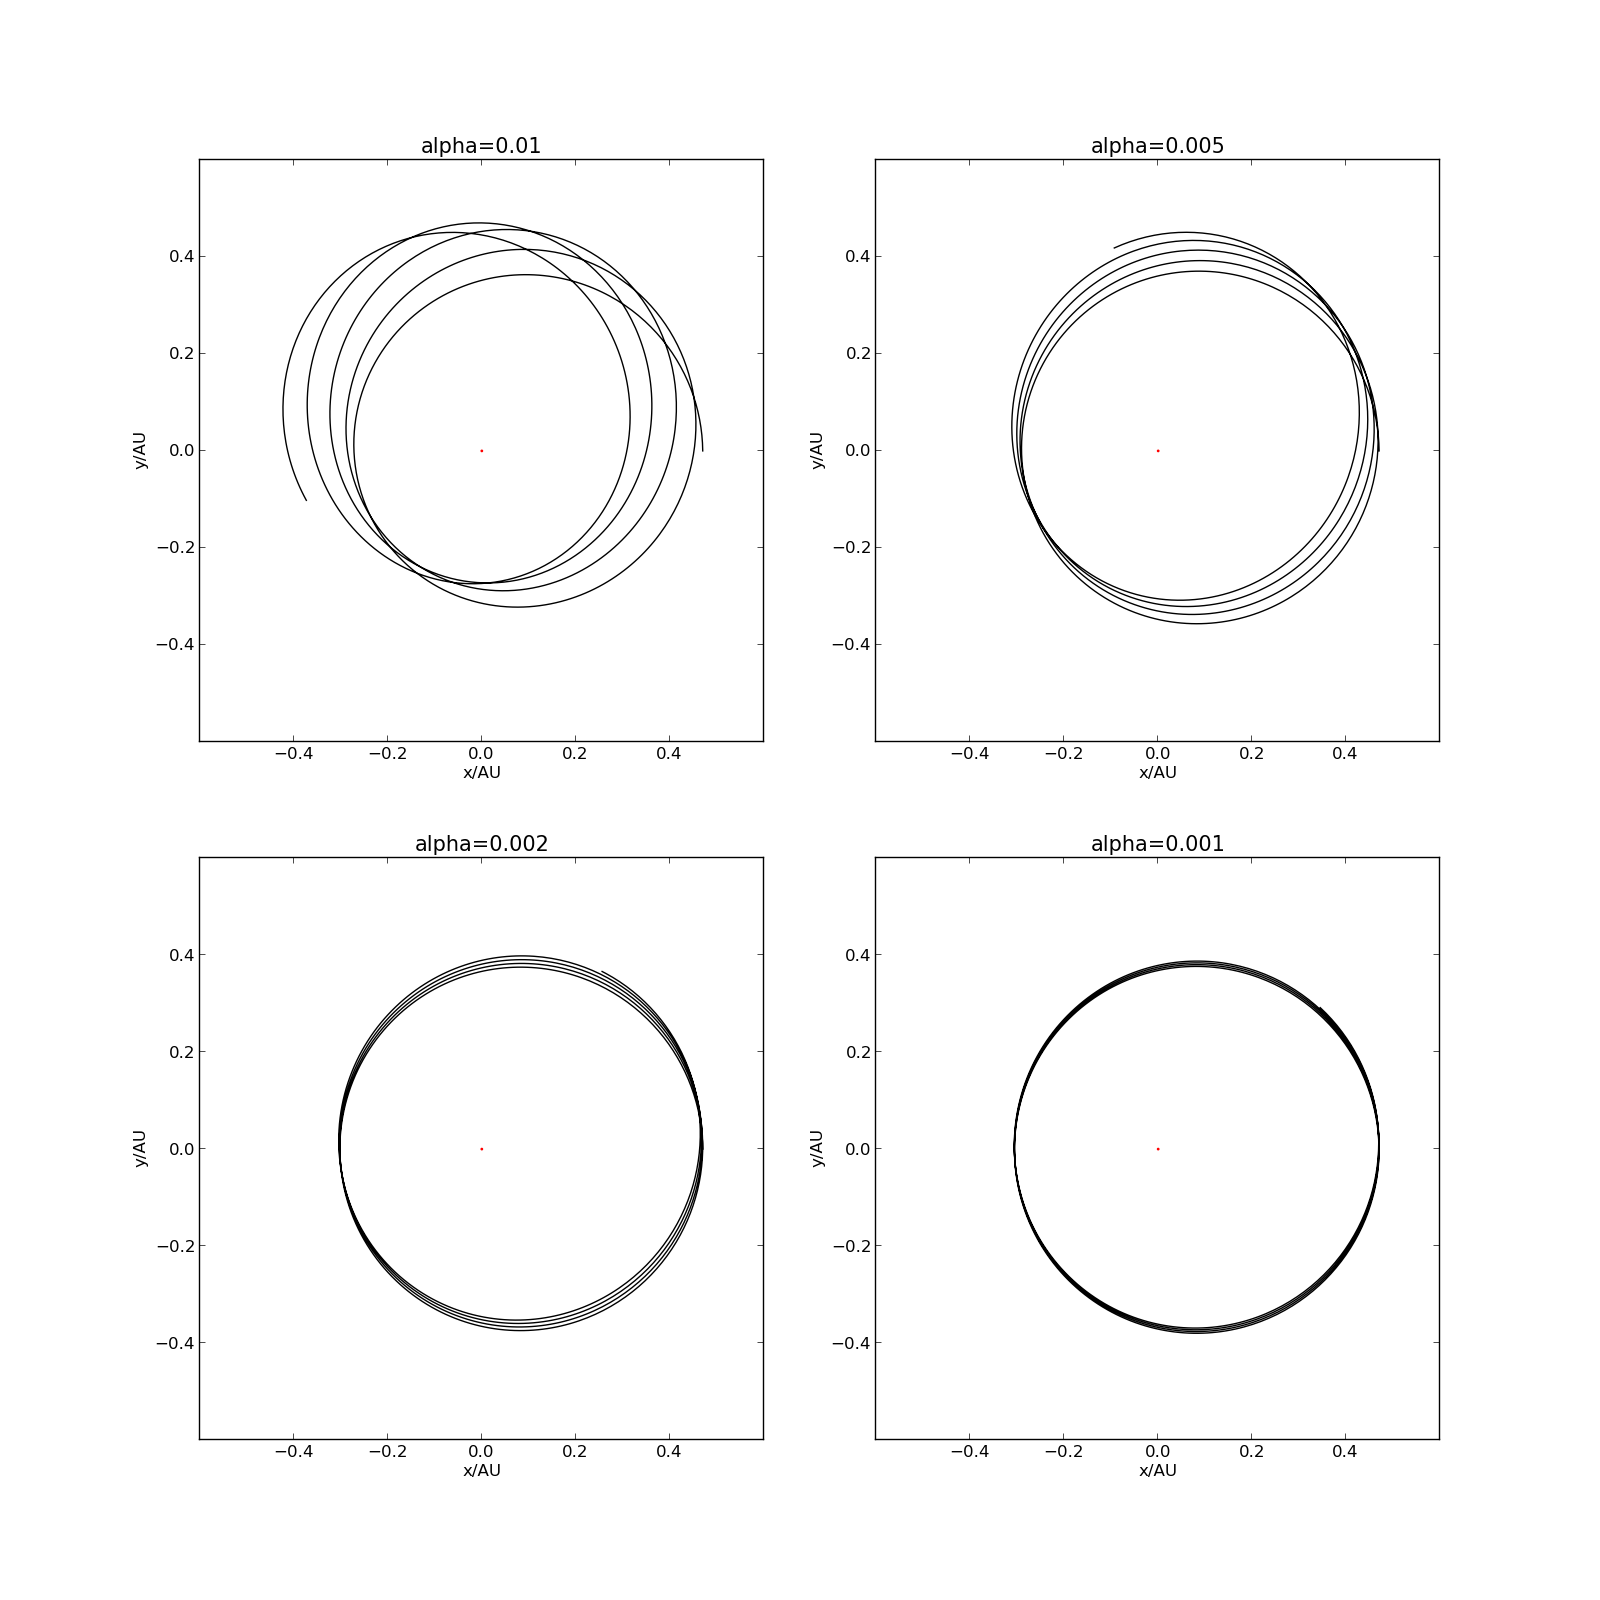
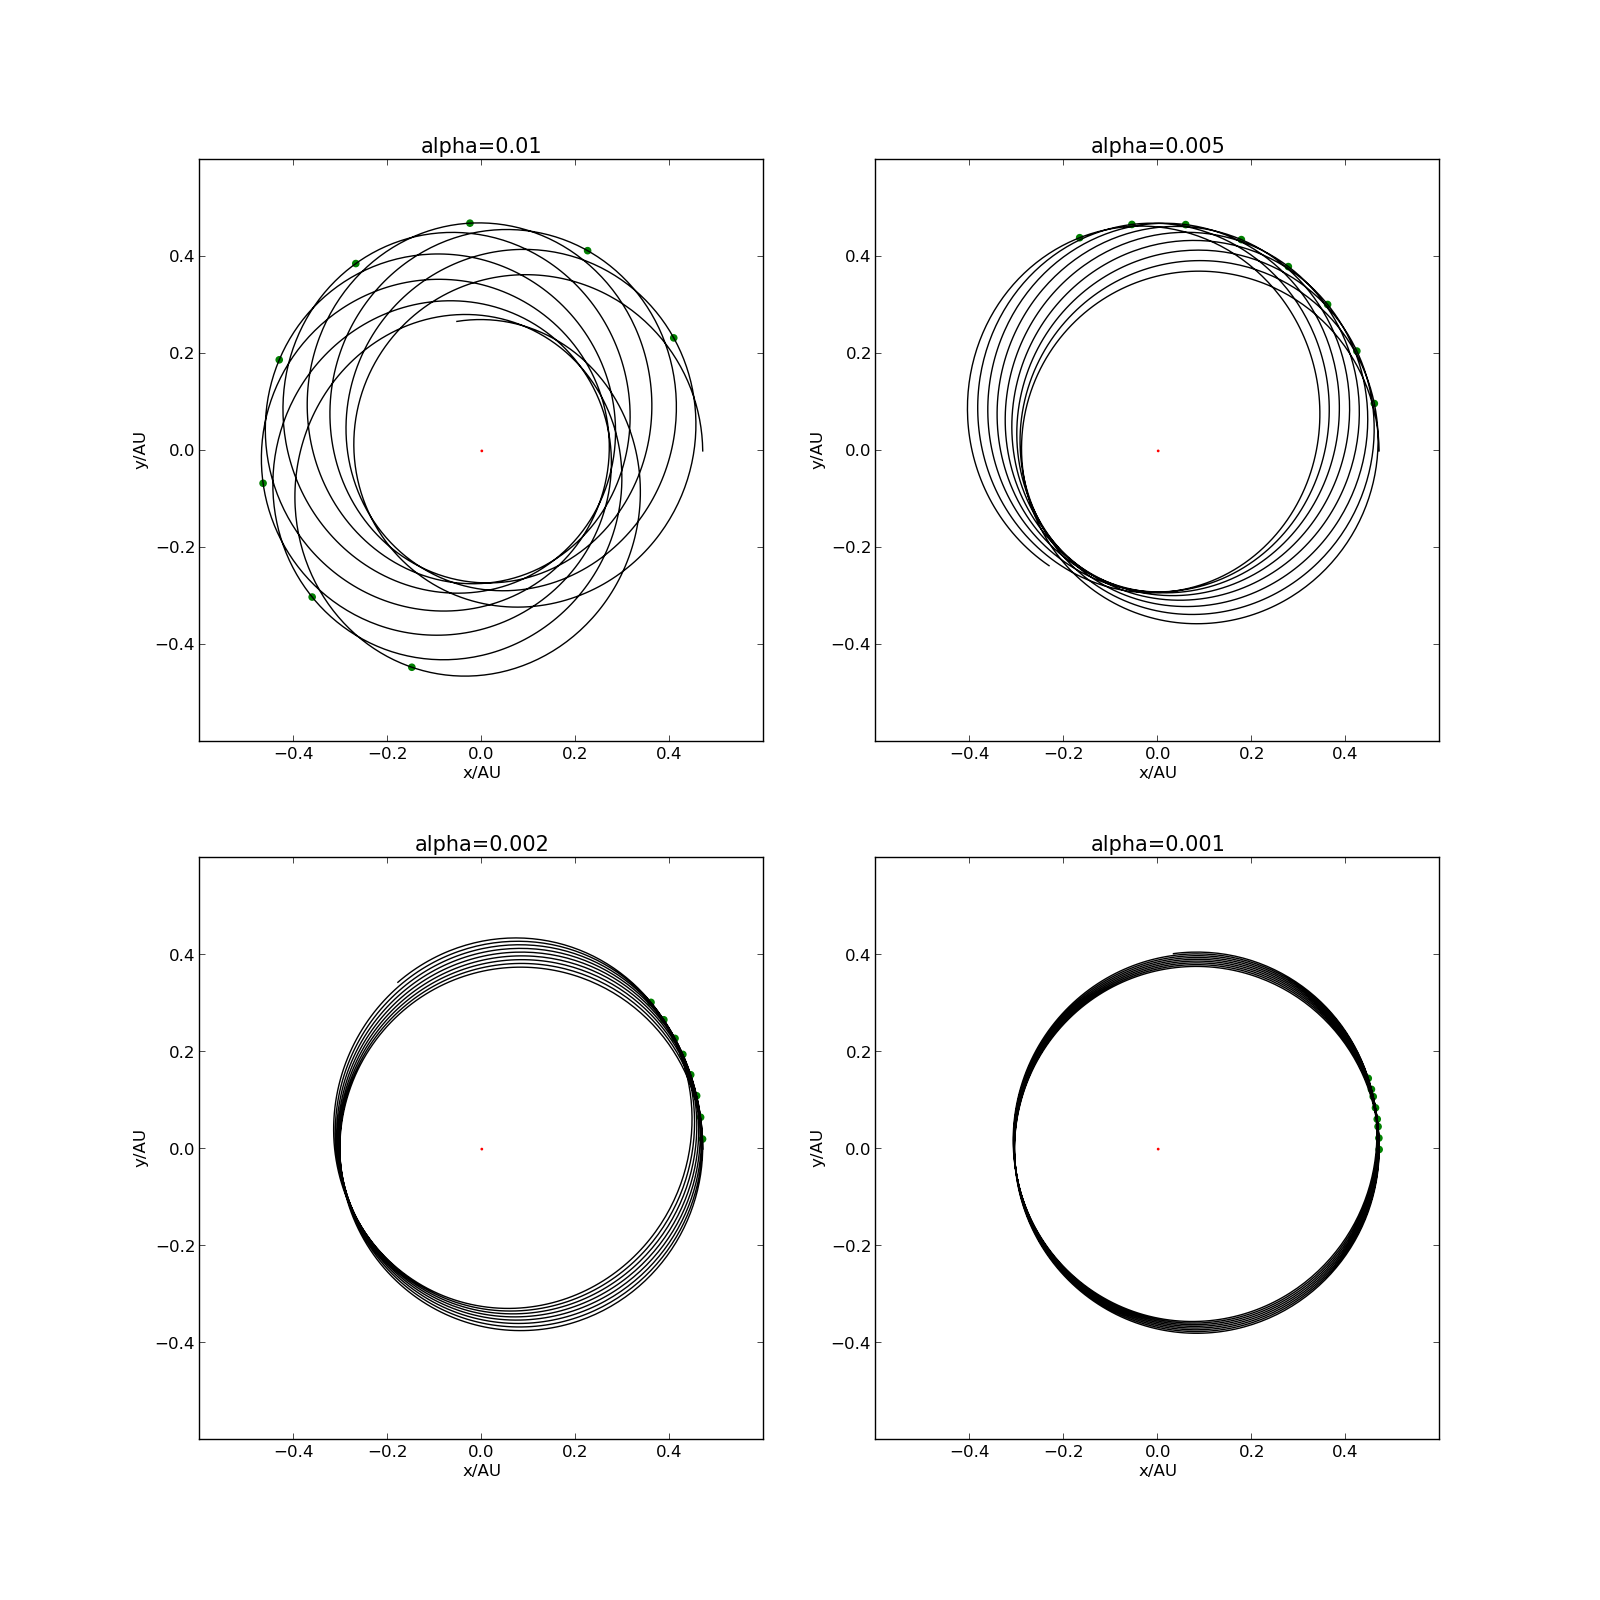
Added files via upload

diff --git a/Mercury.py b/Mercury.py
@@ -1,0 +1,194 @@
+'''
+The precession of Mercury
+astronomical units
+
+F=GMM'/(r^2)*(1+alpha/(r^2))
+'''
+
+import numpy as np
+from pylab import *
+from math import *
+import mpl_toolkits.mplot3d
+
+#Determine the initial value
+def initial(a,e):
+    x0=a*(1+e)
+    y0=0
+    v_x0=0
+    v_y0=2*pi*sqrt((1-e)/(a*(1+e)))
+    return [x0,y0,v_x0,v_y0]
+
+def orbits(alpha):
+    global a
+    a=0.39
+    e=0.206
+    i_M=initial(a,e)
+    x0=i_M[0]
+    x=[]
+    x.append(x0)
+    y0=i_M[1]
+    y=[]
+    y.append(y0)
+    v_x0=i_M[2]
+    v_x=[]
+    v_x.append(v_x0)
+    v_y0=i_M[3]
+    v_y=[]
+    v_y.append(v_y0)
+    r=[]
+    r.append(sqrt(x0**2+y0**2))
+    t=[]
+    t.append(0)
+    time=2.0
+    dt=0.001
+
+    for i in range(int(time/dt)):
+        v_x.append(v_x[i]-4*pi**2*x[i]/(r[i]**3)*(1+alpha/(r[i]**2))*dt)
+        x.append(x[i]+v_x[i+1]*dt)
+        v_y.append(v_y[i]-4*pi**2*y[i]/(r[i]**3)*(1+alpha/(r[i]**2))*dt)
+        y.append(y[i]+v_y[i+1]*dt)
+        r.append(sqrt(x[i+1]**2+y[i+1]**2))
+        t.append(t[i]+dt)
+    return [x,y,v_x,v_y,r,t]
+
+def precession(M):
+    x=M[0]
+    y=M[1]
+    r=M[4]
+    t=M[5]
+    theta=[]
+    xp=[]
+    yp=[]
+    tp=[]
+    for i in range(len(r)-2):
+        if (r[i+2]-r[i+1])*(r[i+1]-r[i])<0:#choose the perihelions and aphelions
+            if r[i+1]>a:#choose the aphelions
+                if y[i+1]/x[i+1]>0:
+                    angle=arctan(y[i+1]/x[i+1])
+                else:
+                    angle=pi+arctan(y[i+1]/x[i+1])
+                theta.append(angle)
+                xp.append(x[i+1])
+                yp.append(y[i+1])
+                tp.append(t[i+1])
+    print tp,theta
+    return [tp,theta,xp,yp]
+
+#The orbits of planet
+f=open('precession of  Mercury.txt','w')
+M1=orbits(0.01)
+x_M1=M1[0]
+y_M1=M1[1]
+p1=precession(M1)
+tp1=p1[0]
+theta1=p1[1]
+print >> f,'alpha=',0.01
+print >> f,'tp1=',tp1,'theta1=',theta1
+xp1=p1[2]
+yp1=p1[3]
+
+M2=orbits(0.005)
+x_M2=M2[0]
+y_M2=M2[1]
+p2=precession(M2)
+tp2=p2[0]
+theta2=p2[1]
+print >> f,'alpha=',0.005
+print >> f,'tp2=',tp2,'theta2=',theta2
+xp2=p2[2]
+yp2=p2[3]
+
+M3=orbits(0.002)
+x_M3=M3[0]
+y_M3=M3[1]
+p3=precession(M3)
+tp3=p3[0]
+theta3=p3[1]
+print >> f,'alpha=',0.002
+print >> f,'tp3=',tp3,'theta3=',theta3
+xp3=p3[2]
+yp3=p3[3]
+
+M4=orbits(0.001)
+x_M4=M4[0]
+y_M4=M4[1]
+p4=precession(M4)
+tp4=p4[0]
+theta4=p4[1]
+print >> f,'alpha=',0.001
+print >> f,'tp4=',tp4,'theta4=',theta4
+xp4=p4[2]
+yp4=p4[3]
+
+M5=orbits(0.003)
+x_M5=M5[0]
+y_M5=M5[1]
+p5=precession(M5)
+tp5=p5[0]
+theta5=p5[1]
+print >> f,'alpha=',0.003
+print >> f,'tp5=',tp5,'theta5=',theta5
+
+M6=orbits(0.0005)
+x_M6=M6[0]
+y_M6=M6[1]
+p6=precession(M6)
+tp6=p6[0]
+theta6=p6[1]
+print >> f,'alpha=',0.0005
+print >> f,'tp6=',tp6,'theta6=',theta6
+
+M7=orbits(0.0002)
+x_M7=M7[0]
+y_M7=M7[1]
+p7=precession(M7)
+tp7=p7[0]
+theta7=p7[1]
+print >> f,'alpha=',0.0002
+print >> f,'tp7=',tp7,'theta7=',theta7
+
+f.close()
+#plot
+figure(figsize=[16,16])
+subplot(221)#3 numbers:the total number of rows,columns and the number of subplot
+plot(x_M1,y_M1,color='black')
+scatter(0,0,s=1,color='red')
+scatter(xp1,yp1,color='green')
+title('alpha=0.01',fontsize=15)
+xlabel('x/AU')
+xlim(-0.6,0.6)
+ylabel('y/AU')
+ylim(-0.6,0.6)
+
+subplot(222)
+plot(x_M2,y_M2,color='black')
+scatter(0,0,s=1,color='red')
+scatter(xp2,yp2,color='green')
+title('alpha=0.005',fontsize=15)
+xlabel('x/AU')
+xlim(-0.6,0.6)
+ylabel('y/AU')
+ylim(-0.6,0.6)
+
+subplot(223)
+plot(x_M3,y_M3,color='black')
+scatter(0,0,s=1,color='red')
+scatter(xp3,yp3,color='green')
+title('alpha=0.002',fontsize=15)
+xlabel('x/AU')
+xlim(-0.6,0.6)
+ylabel('y/AU')
+ylim(-0.6,0.6)
+
+subplot(224)
+plot(x_M4,y_M4,color='black')
+scatter(0,0,s=1,color='red')
+scatter(xp4,yp4,color='green')
+title('alpha=0.001',fontsize=15)
+xlabel('x/AU')
+xlim(-0.6,0.6)
+ylabel('y/AU')
+ylim(-0.6,0.6)
+
+savefig('Mercury.png')
+show()
